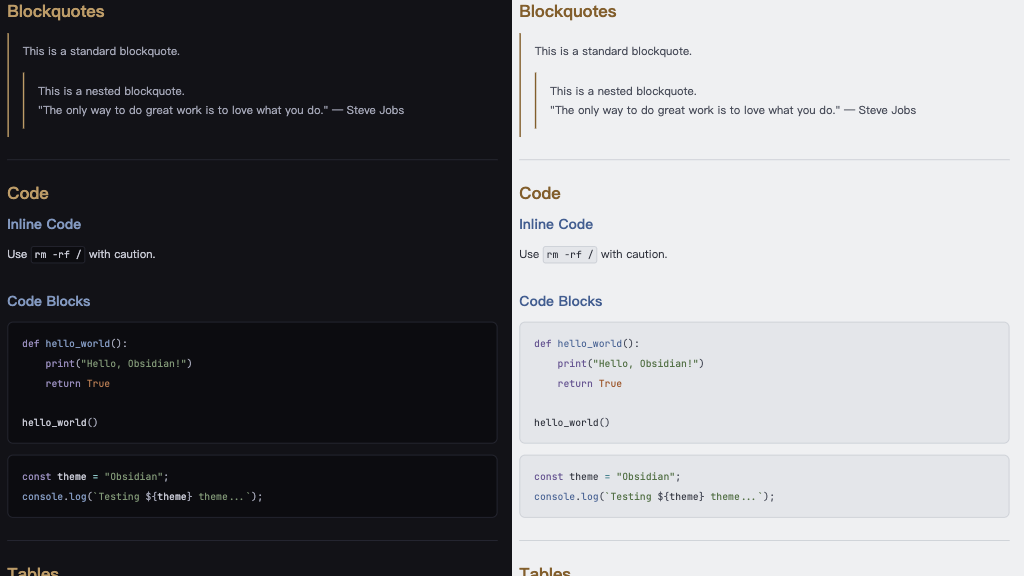
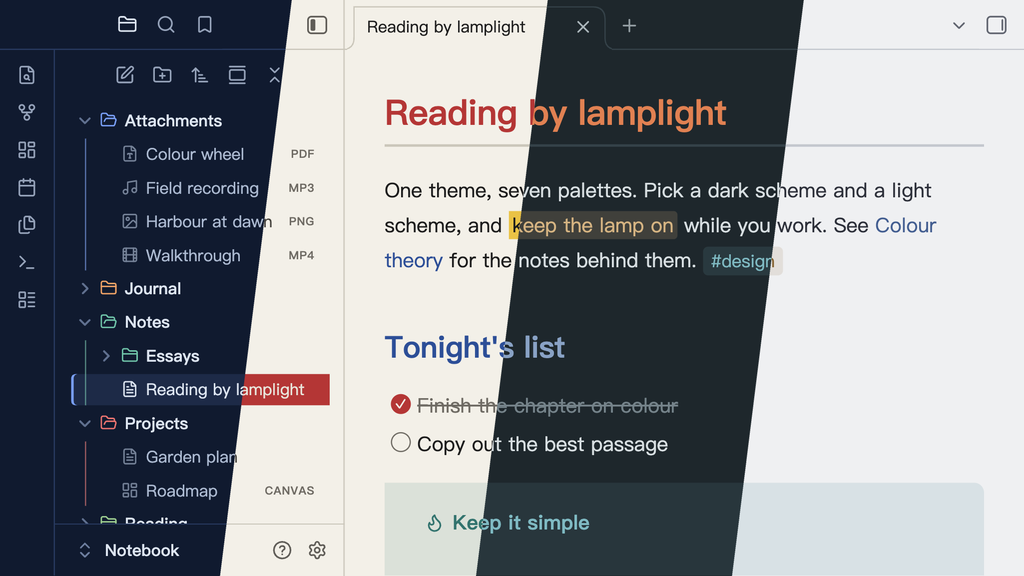
docs(obsidian): new Lamplit README, hero screenshot and palette overview
The hero shows Big Wave, Bauhaus, Impression and Wonderland in one window;
palettes.png shows all seven palettes in dark and light. Both come from a
real Obsidian rendering of an invented demo vault. The README leads with the
seven palettes and the need for Style Settings.

publish-lamplit.sh gets a --docs mode: the directory reads the README and
images from the main branch, so they need no new release.

Claude-Session: https://claude.ai/code/session_01WfijsnSvAuQehQCM2UdjjE

diff --git a/obsidian/lamplit/README.md b/obsidian/lamplit/README.md
@@ -1,96 +1,65 @@
-# Lamplit for Obsidian
+# Lamplit
 
-![Lamplit: Wonderland Underground and Lab](screenshot.png)
+**One theme, seven palettes.** Pick a scheme for dark mode and another for light mode, from any palette you like.
 
-Reading by lamplight (青灯夜读). Lamplit is one Obsidian theme that carries seven palettes as schemes — **Wonderland**, **Merino**, **Big Wave**, **Impression**, **Bauhaus**, **TokyoNight** and **Catppuccin** — so you switch palettes in [Style Settings](https://github.com/mgmeyers/obsidian-style-settings) instead of switching themes. Dark and light mode each get their own scheme, and they can come from different palettes.
+![Lamplit in Big Wave, Bauhaus, Impression and Wonderland](screenshot.png)
 
----
+青灯夜读：一个主题，七套配色，深色和浅色模式可以分别选择。[中文说明](https://github.com/agiledolphin/themes/blob/main/README.zh-CN.md)
 
-## Schemes
+## Get started
 
-| Palette | Scheme | Mode | Background | Character |
-|---------|--------|------|------------|-----------|
-| Wonderland | Underground | Dark | `#121218` | The INKlings' sewers — darkest, coldest (default dark) |
-| Wonderland | Office District | Dark | `#1d1d1d` | Tokyo at night above ground — a shade lighter, warmer |
-| Wonderland | Lab | Light | `#eef0f2` | The System's sterile laboratory — cold white (default light) |
-| Merino | Dark | Dark | `#0d1117` | Near-black ground, cool light text |
-| Merino | Light | Light | `#ffffff` | White ground, near-black text |
-| Big Wave | Pipeline | Dark | `#0e1a30` | Inside the tube — deep navy, foam-white text |
-| Big Wave | Spray | Light | `#f4f7fb` | White spray — blue-white ground, deep-navy text |
-| Impression | Havre | Dark | `#1c272c` | The harbour before sunrise — slate grey-green, misty text |
-| Impression | Brume | Light | `#f4f6f5` | Morning mist — airy grey-green white, slate text |
-| Bauhaus | Weimar | Dark | `#161616` | Black ground, paper-white text, bright primaries |
-| Bauhaus | Dessau | Light | `#f3f0e7` | Warm paper white, near-black text |
-| TokyoNight | Storm | Dark | `#24283b` | Blue-grey, standard dark |
-| TokyoNight | Night | Dark | `#1a1b26` | Deep, near-black |
-| TokyoNight | Moon | Dark | `#222436` | Blue-purple tint |
-| TokyoNight | Day | Light | `#e1e2e7` | Low-saturation light |
-| Catppuccin | Mocha | Dark | `#1e1e2e` | Deep navy, the darkest flavor |
-| Catppuccin | Macchiato | Dark | `#24273a` | Slightly lighter navy |
-| Catppuccin | Frappé | Dark | `#303446` | Cool dark grey-blue |
-| Catppuccin | Latte | Light | `#eff1f5` | Warm parchment light |
+1. Install **Lamplit** from **Settings → Appearance → Themes → Manage**.
+2. Install **Style Settings** from the Community Plugins list.
+3. Open **Settings → Style Settings → Lamplit** and pick a **Dark Mode Scheme** and a **Light Mode Scheme**.
 
-Wonderland is an original palette inspired by the "Hard-Boiled Wonderland" half of Haruki Murakami's *Hard-Boiled Wonderland and the End of the World*: restrained indigo-black grounds, cool grey-white text, and a single warm brass accent. Merino follows the Merino Light / Merino Dark terminal themes (GitHub Primer colors): neutral white and near-black grounds with crisp accents. Big Wave follows the cover of Tatsuro Yamashita's *Big Wave* (1984): ocean-navy and spray-white grounds, a coral title color for H1, cobalt links and a yellow-surfboard highlight. Impression follows Monet's *Impression, Sunrise* (1872): cool, muted grey-blue and grey-green mist with the orange sun as the only warm note; its light scheme is kept airy. Bauhaus follows the Bauhaus school: red, yellow and blue on paper white or black, solid blocks and square corners — the highlight is a solid yellow block, the file explorer and menus use solid fills, and every corner is square, Obsidian's own UI included. TokyoNight and Catppuccin follow their official palettes.
+Without Style Settings you get Wonderland, and no way to switch palettes.
 
-Each palette keeps its own character beyond color:
+## Palettes
 
-- **File explorer** — Wonderland, Merino, Big Wave, Impression and TokyoNight mark the open file with an accent tint and a left bar; Catppuccin and Bauhaus use solid fills (Catppuccin: lavender on hover, mauve for the open file; Bauhaus: blue on hover, red for the open file).
-- **Context menus** — the selected item follows the same language: an accent tint, or a solid fill for Catppuccin (lavender) and Bauhaus (red).
+![The seven palettes, each in dark and light](palettes.png)
 
----
-
-## Choosing schemes (Style Settings)
-
-1. Install **Style Settings** from the Community Plugins list.
-2. Open **Settings → Style Settings → Lamplit**.
-3. Pick a **Dark Mode Scheme** (12 options) and a **Light Mode Scheme** (7 options).
-
-Without Style Settings, Lamplit uses **Wonderland · Underground** in dark mode and **Wonderland · Lab** in light mode.
-
----
+| Palette | Dark | Light | After |
+|---------|------|-------|-------|
+| **Wonderland** | Underground, Office District | Lab | Murakami's *Hard-Boiled Wonderland*: ink black and a single brass accent (original) |
+| **Merino** | Dark | Light | The Merino terminal themes: neutral grounds, GitHub Primer colors |
+| **Big Wave** | Pipeline | Spray | Tatsuro Yamashita's *Big Wave*: ocean navy, spray white, a coral title |
+| **Impression** | Havre | Brume | Monet's *Impression, Sunrise*: grey-green mist and one orange sun |
+| **Bauhaus** | Weimar | Dessau | The Bauhaus: three primaries, solid blocks, square corners |
+| **TokyoNight** | Storm, Night, Moon | Day | The official [tokyonight.nvim](https://github.com/folke/tokyonight.nvim) palette |
+| **Catppuccin** | Mocha, Macchiato, Frappé | Latte | The official [Catppuccin](https://catppuccin.com) palette |
 
 ## Features
 
-- **Full Obsidian variable mapping** — backgrounds, text, links, code, headings, tags, callouts, checkboxes, graph, ribbon
-- **Reading view and Live Preview look the same** — headings, code blocks (frame, size, font, line height), inline code, tables, blockquotes, tags, highlights and links are driven by the same variables in both views
-- **Callouts** — all 13 official types with semantic colors; titles and icons take the per-type hue
-- **Task list** — 7 states with custom circular checkboxes: `x`, `/`, `-`, `>`, `?`, `!`
-- **Tables** — sized to their content, rounded frame (square in Bauhaus), single grid lines, 14px text
-- **Search highlights** — one dedicated search color per palette (Wonderland cyan, Merino orange, Big Wave sunset orange, Impression lilac, Bauhaus orange, TokyoNight orange, Catppuccin peach), distinct from highlighted text and the selection
-- **Context menus** — a darker surface than the editor; destructive items such as Delete turn red when selected
-- **Chinese-first typography** — PingFang SC → Hiragino Sans GB → Noto Serif SC
-- **File type icons** in the file explorer — notes, images, canvases, bases, PDFs, audio, video and other files each have their own icon
-- **Hide Folder Icons** and **Hide File Icons** toggles in Style Settings
-- **Color Folders** toggle in Style Settings (off by default) — each top-level folder takes the next color of an 8-color cycle from the scheme, and everything inside it inherits that color
+- **Same look in Reading view and Live Preview**: headings, code, tables, quotes, tags, highlights and links match
+- **File type icons** in the file explorer: notes, images, canvases, bases, PDFs, audio and video
+- **Callouts**: all 13 official types, each with its own color
+- **Task states**: `x`, `/`, `-`, `>`, `?`, `!`, drawn as round checkboxes
+- **Search highlights** in a color of their own, apart from highlighted text and the selection
+- **Chinese-first typography**: PingFang SC → Hiragino Sans GB → Noto Serif SC
 
-> **Note (Color Folders):** colors follow the folder's position, not its name. A new top-level folder shifts the colors after it. In a long file list, Obsidian removes top-level folders that are scrolled out of view, so the remaining folders renumber and can change color while you scroll. A theme cannot avoid this, because it only has CSS.
+The Style Settings page also has three toggles: **Hide Folder Icons**, **Hide File Icons** and **Color Folders**.
 
-> **Note (macOS):** Obsidian uses native system menus on macOS by default, and themes cannot style those. To see the themed context menus, turn off **Settings → Interface → Advanced → Native menus**.
+## Good to know
 
----
+- **The picture above has Color Folders on.** It is off by default, and each scheme looks a little different when it is on.
+- **Color Folders follows position, not name.** Each top-level folder takes the next of 8 colors from the scheme, so a new top-level folder shifts the colors after it. In a long file list, Obsidian removes folders that are scrolled out of view, so the remaining ones renumber and can change color while you scroll. A theme cannot avoid this, because it only has CSS.
+- **macOS context menus.** Obsidian uses native system menus by default, and themes cannot style those. To see themed menus, turn off **Settings → Interface → Advanced → Native menus**.
 
-## Installation
+## Install by hand
 
-Once Lamplit is listed in the Obsidian community directory, install it from **Settings → Appearance → Themes → Manage**. To install it by hand:
+1. Download `theme.css` and `manifest.json` from the [latest release](https://github.com/agiledolphin/lamplit/releases/latest).
+2. Put them in `<your-vault>/.obsidian/themes/Lamplit/`. The folder must be named exactly `Lamplit`: Obsidian silently skips a theme whose folder name differs from the manifest's `name`, even by case.
+3. Restart Obsidian and select **Lamplit** in **Settings → Appearance → Themes**.
 
-1. Copy `theme.css` and `manifest.json` to `<your-vault>/.obsidian/themes/Lamplit/`. The folder must be named exactly `Lamplit`: Obsidian silently skips a theme whose folder name differs from the manifest's `name`, even by case
-2. Open **Settings → Appearance → Themes** and select **Lamplit**
+## Source
 
----
+The files in `agiledolphin/lamplit` are generated. Their sources, and the same palettes for Typora, are in [agiledolphin/themes](https://github.com/agiledolphin/themes). Report issues in that repository.
 
 ## Credits
 
 - Palettes: [tokyonight.nvim](https://github.com/folke/tokyonight.nvim) by [@folke](https://github.com/folke); [Catppuccin](https://catppuccin.com) by the Catppuccin org; Merino after the Merino Light / Dark terminal themes (GitHub Primer colors); Big Wave after the cover of Tatsuro Yamashita's *Big Wave*; Impression after Claude Monet's *Impression, Sunrise*; Bauhaus after the Bauhaus school; Wonderland is original
 - Design reference: [Minimal](https://github.com/kepano/obsidian-minimal) by [@kepano](https://github.com/kepano)
 - Icons: [Lucide](https://lucide.dev), the set Obsidian itself uses
-
----
-
-## Source
-
-The theme files in `agiledolphin/lamplit` are generated. Their sources, and the same palettes for Typora, are in [agiledolphin/themes](https://github.com/agiledolphin/themes).
-
----
 
 ## License
 

diff --git a/CLAUDE.md b/CLAUDE.md
@@ -41,7 +41,7 @@ app.css (e.g. a link rule that silently recolored `a.tag`).
 
 ```
 themes/
-├── obsidian/lamplit/        # theme.css + manifest.json (generated) + README.md, screenshot.png
+├── obsidian/lamplit/        # theme.css + manifest.json (generated) + README.md, screenshot.png, palettes.png
 ├── typora/<palette>/        # lamplit-<palette>-<variant>.css (one file per variant) + README.md
 ├── shared/
 │   ├── lamplit.toml            # Lamplit settings — see above (its name is also the Typora prefix)
@@ -166,7 +166,8 @@ Typora files are copied flat into Typora's themes directory, so relative imports
   the theme files in its root. `./scripts/publish-lamplit.sh` copies them from here and creates
   the release; its tag must equal the manifest's version, with no `v`. Run it for every new
   Lamplit version (ask the user first: it publishes), and never edit that repository directly.
-  Its README is `obsidian/lamplit/README.md`, its screenshot `obsidian/lamplit/screenshot.png`.
+  Its README and images are in `obsidian/lamplit/` (`README.md`, `screenshot.png`, `palettes.png`);
+  the directory reads those from the main branch, so `--docs` publishes them without a release.
 
 ## Tooling
 

diff --git a/THEMES_PLAN.md b/THEMES_PLAN.md
@@ -165,7 +165,7 @@
 | 项目 | 说明 | 状态 |
 |------|------|------|
 | 独立发布仓库 | `agiledolphin/lamplit`：根目录放主题文件，`scripts/publish-lamplit.sh` 从本仓库同步并发版（tag 与 manifest 版本相同，无 `v`）；已发布 `1.6.0` | ☑ |
-| 截图素材 | `obsidian/lamplit/screenshot.png`：Wonderland Underground + Lab 对半，1024×576（16:9），只用示例笔记，不含 vault 文件列表 | ☑ |
+| 截图素材 | `screenshot.png`：Big Wave / Bauhaus / Impression / Wonderland 四配色斜切，开启 Color Folders，1024×576；`palettes.png`：七套配色深浅总览，关闭 Color Folders。都用临时 Obsidian 实例（独立 user-data-dir）和虚构演示 vault 真实渲染，不含用户内容 | ☑ |
 | manifest.json | `authorUrl` 已填 | ☑ |
 | LICENSE / README | 本仓库已补；发布仓库的 README 取自 `obsidian/lamplit/README.md` | ☑ |
 | 社区提交 | 用户本人登录 community.obsidian.md 提交并发布，已上架 | ☑ |
